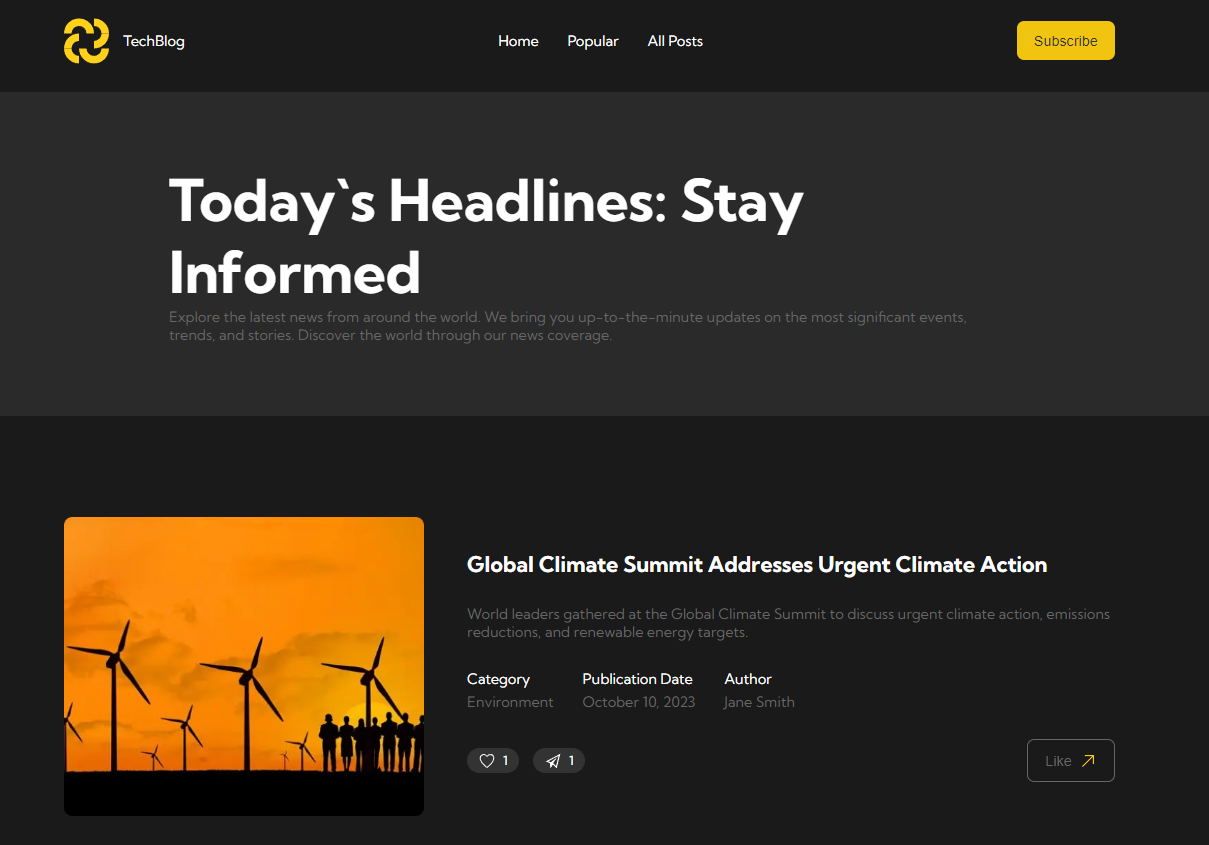
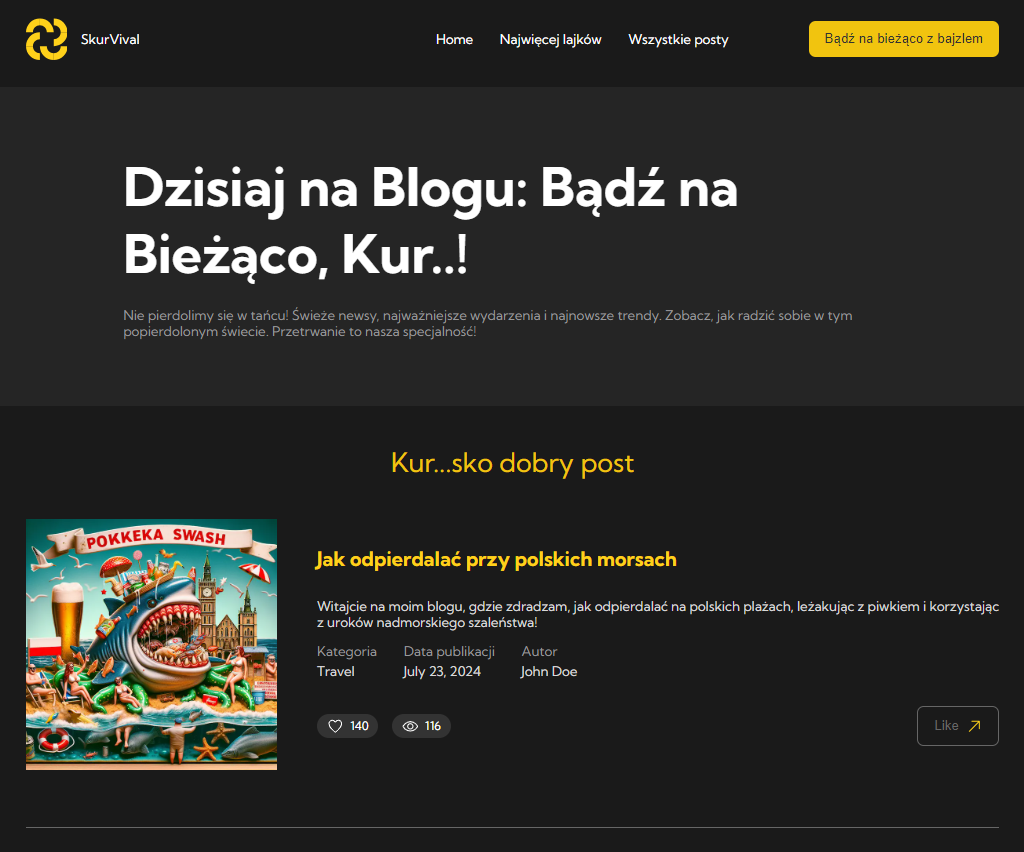
fix: improve meta

diff --git a/src/app/layout.tsx b/src/app/layout.tsx
@@ -7,10 +7,9 @@ import { Header } from "@/components/Header/Header";
 const font = Kumbh_Sans({ subsets: ["latin"] });
 
 export const metadata: Metadata = {
-	title:
-		"TechBlog - Your Gateway to Technology, AI, Business, Sport, Travel, Culture, and Innovation",
+	title: "SkurVival - jak przetrwać w Polsce!",
 	description:
-		"Dive into the world of technology, AI, business insights, sports updates, travel guides, cultural highlights, and groundbreaking innovations. Tech Explorer is your ultimate blog for staying updated with the latest trends and developments across these diverse fields, offering in-depth articles, expert opinions, and comprehensive guides to fuel your curiosity and knowledge.",
+		"Nie pierdolimy się w tańcu! Świeże newsy, najważniejsze wydarzenia i najnowsze trendy. Zobacz, jak radzić sobie w tym popierdolonym świecie. Przetrwanie to nasza specjalność!",
 	metadataBase: new URL("https://nerdbord-project-challenge-lydaswun.vercel.app/"), //change the url to domain after upload
 	alternates: {
 		canonical: "/",
@@ -19,7 +18,7 @@ export const metadata: Metadata = {
 		},
 	},
 	openGraph: {
-		images: "/ogpengraph-image.png",
+		images: "/opengraph-image.png",
 	},
 };
 
@@ -29,7 +28,7 @@ export default function RootLayout({
 	children: React.ReactNode;
 }>) {
 	return (
-		<html lang="en" className={font.className}>
+		<html lang="pl" className={font.className}>
 			<body>
 				<Header />
 				{children}

diff --git a/src/app/post/[slug]/page.tsx b/src/app/post/[slug]/page.tsx
@@ -11,18 +11,9 @@ export async function generateMetadata({
 }): Promise<Metadata> {
 	const post = await getPostBySlug(params.slug);
 
-	if (!post) {
-		return {
-			title:
-				"TechBlog - Your Gateway to Technology, AI, Business, Sport, Travel, Culture, and Innovation",
-			description:
-				"Dive into the world of technology, AI, business insights, sports updates, travel guides, cultural highlights, and groundbreaking innovations. Tech Explorer is your ultimate blog for staying updated with the latest trends and developments across these diverse fields, offering in-depth articles, expert opinions, and comprehensive guides to fuel your curiosity and knowledge.",
-		};
-	}
-
 	return {
-		title: post.title || "Post Title",
-		description: post.preview || "Post Description",
+		title: post?.title || "Post Title",
+		description: post?.preview || "Post Description",
 	};
 }
 
